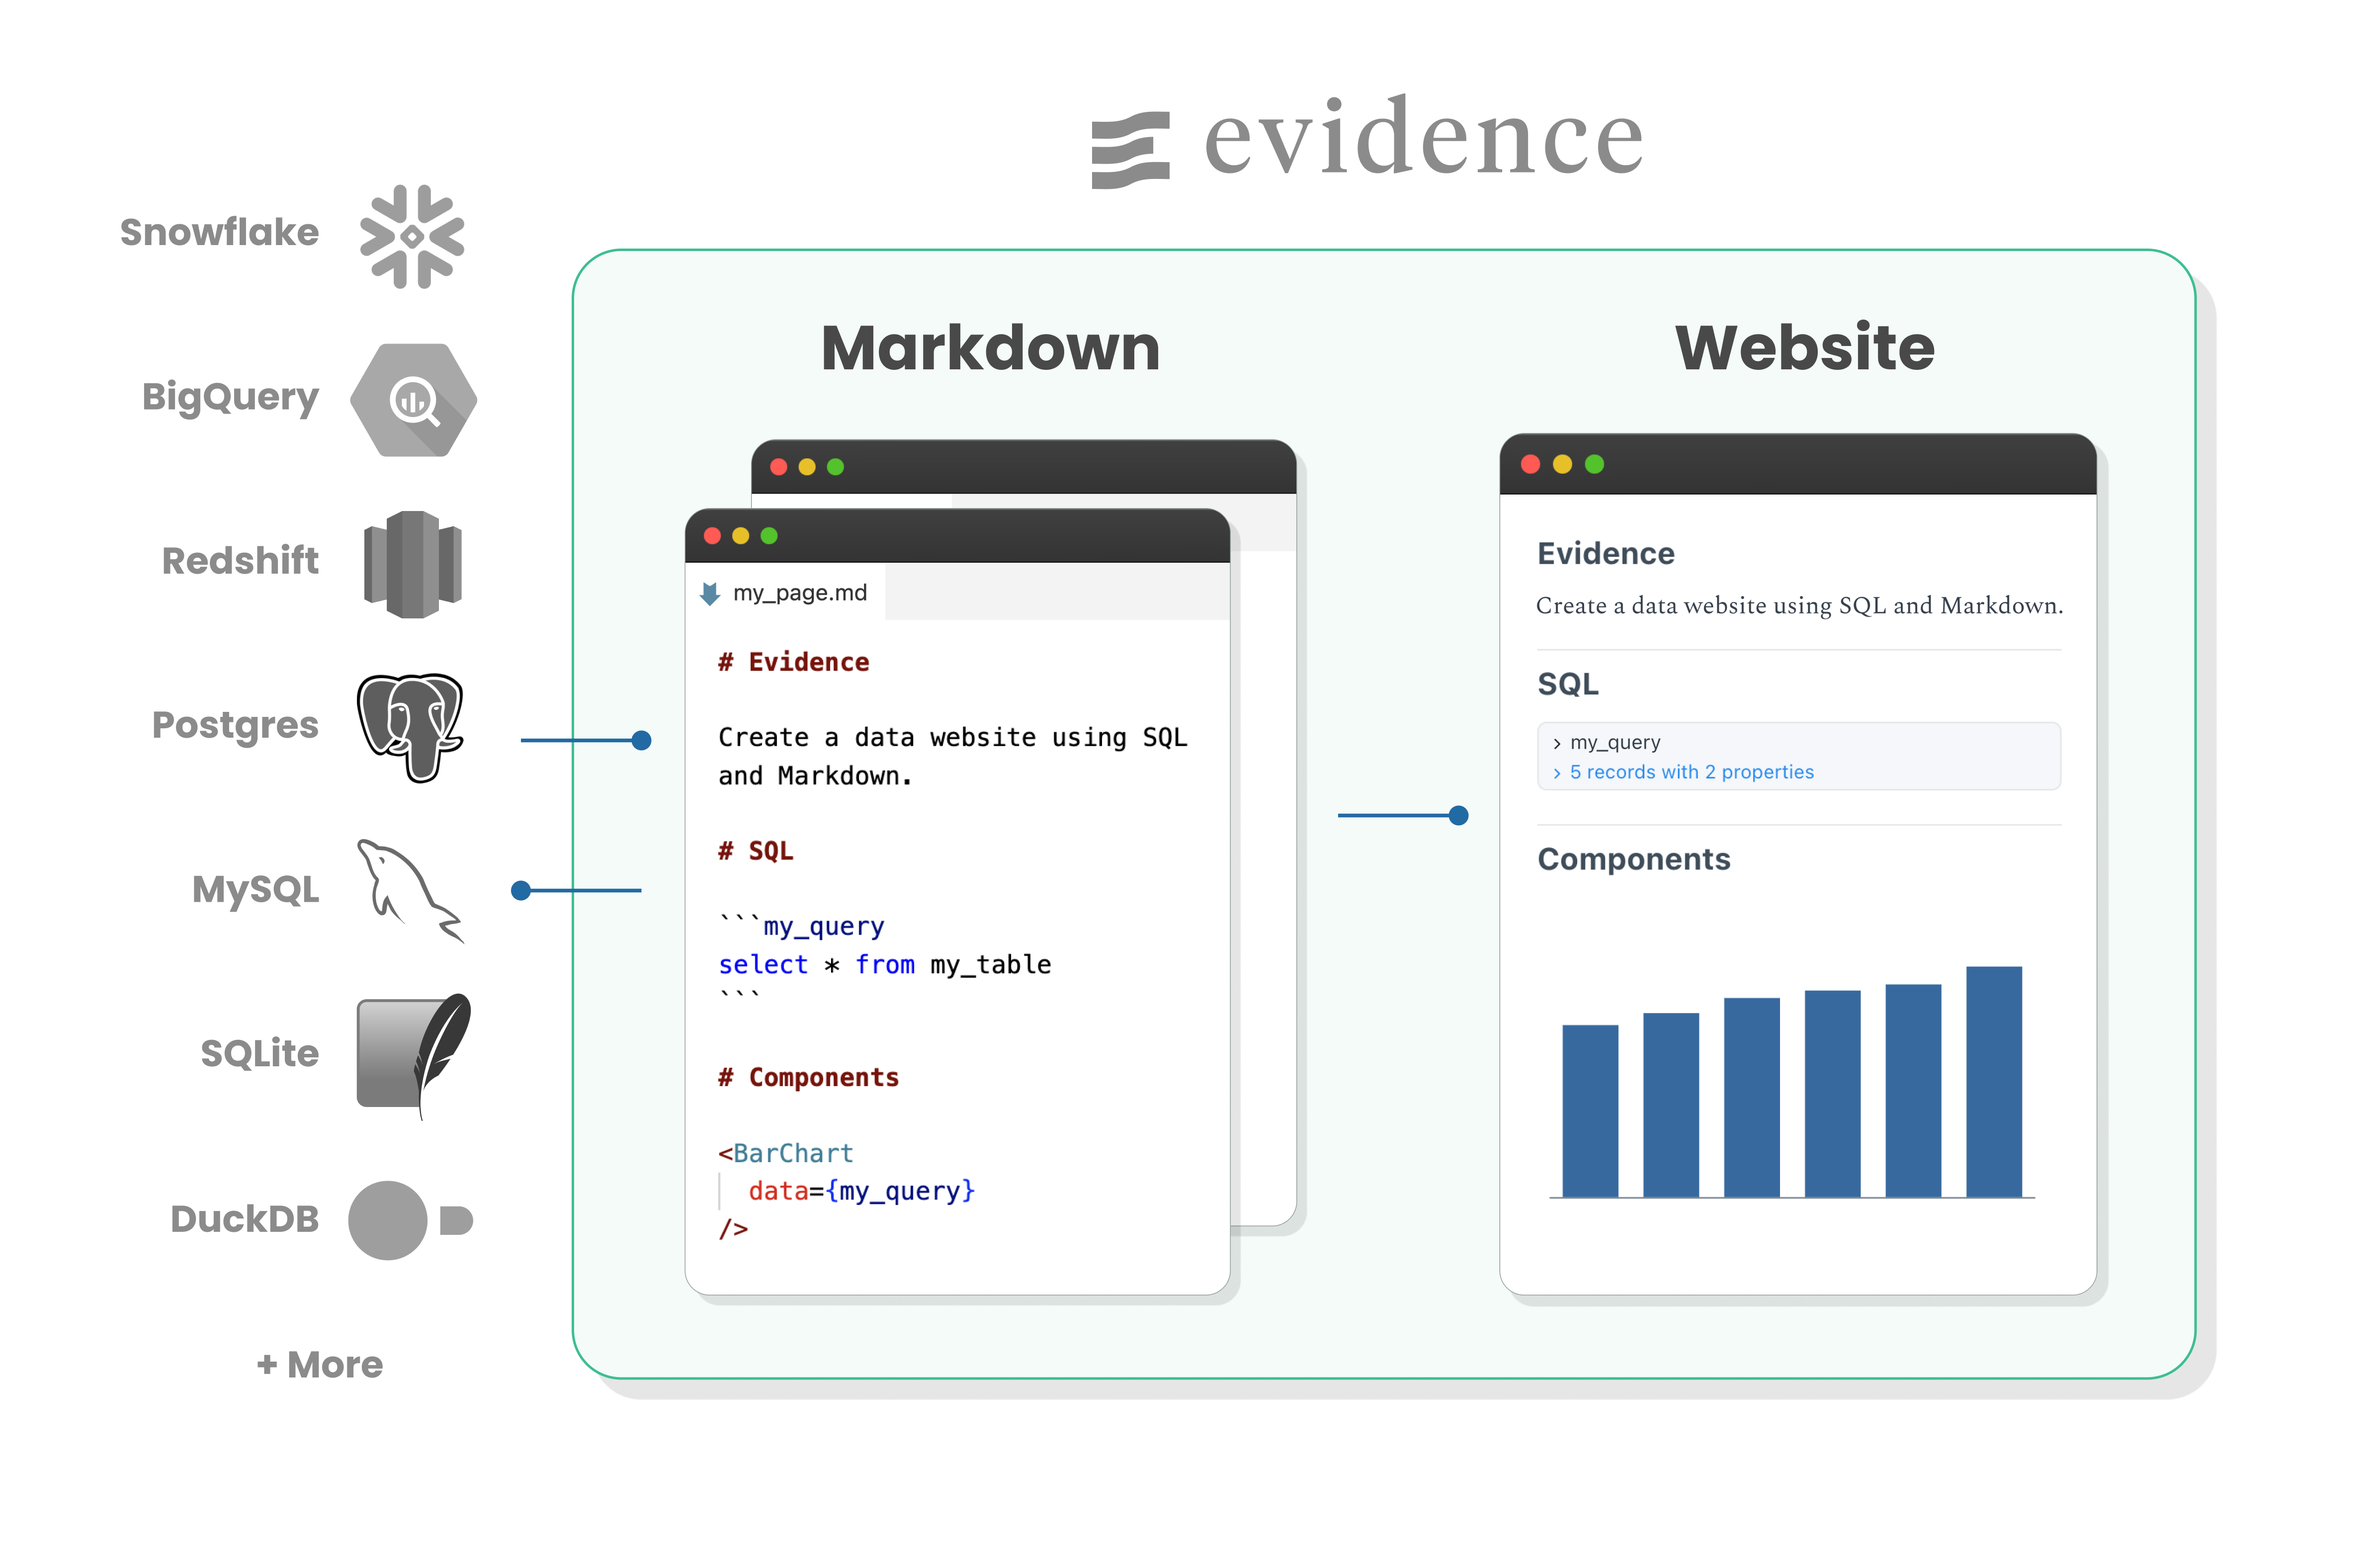
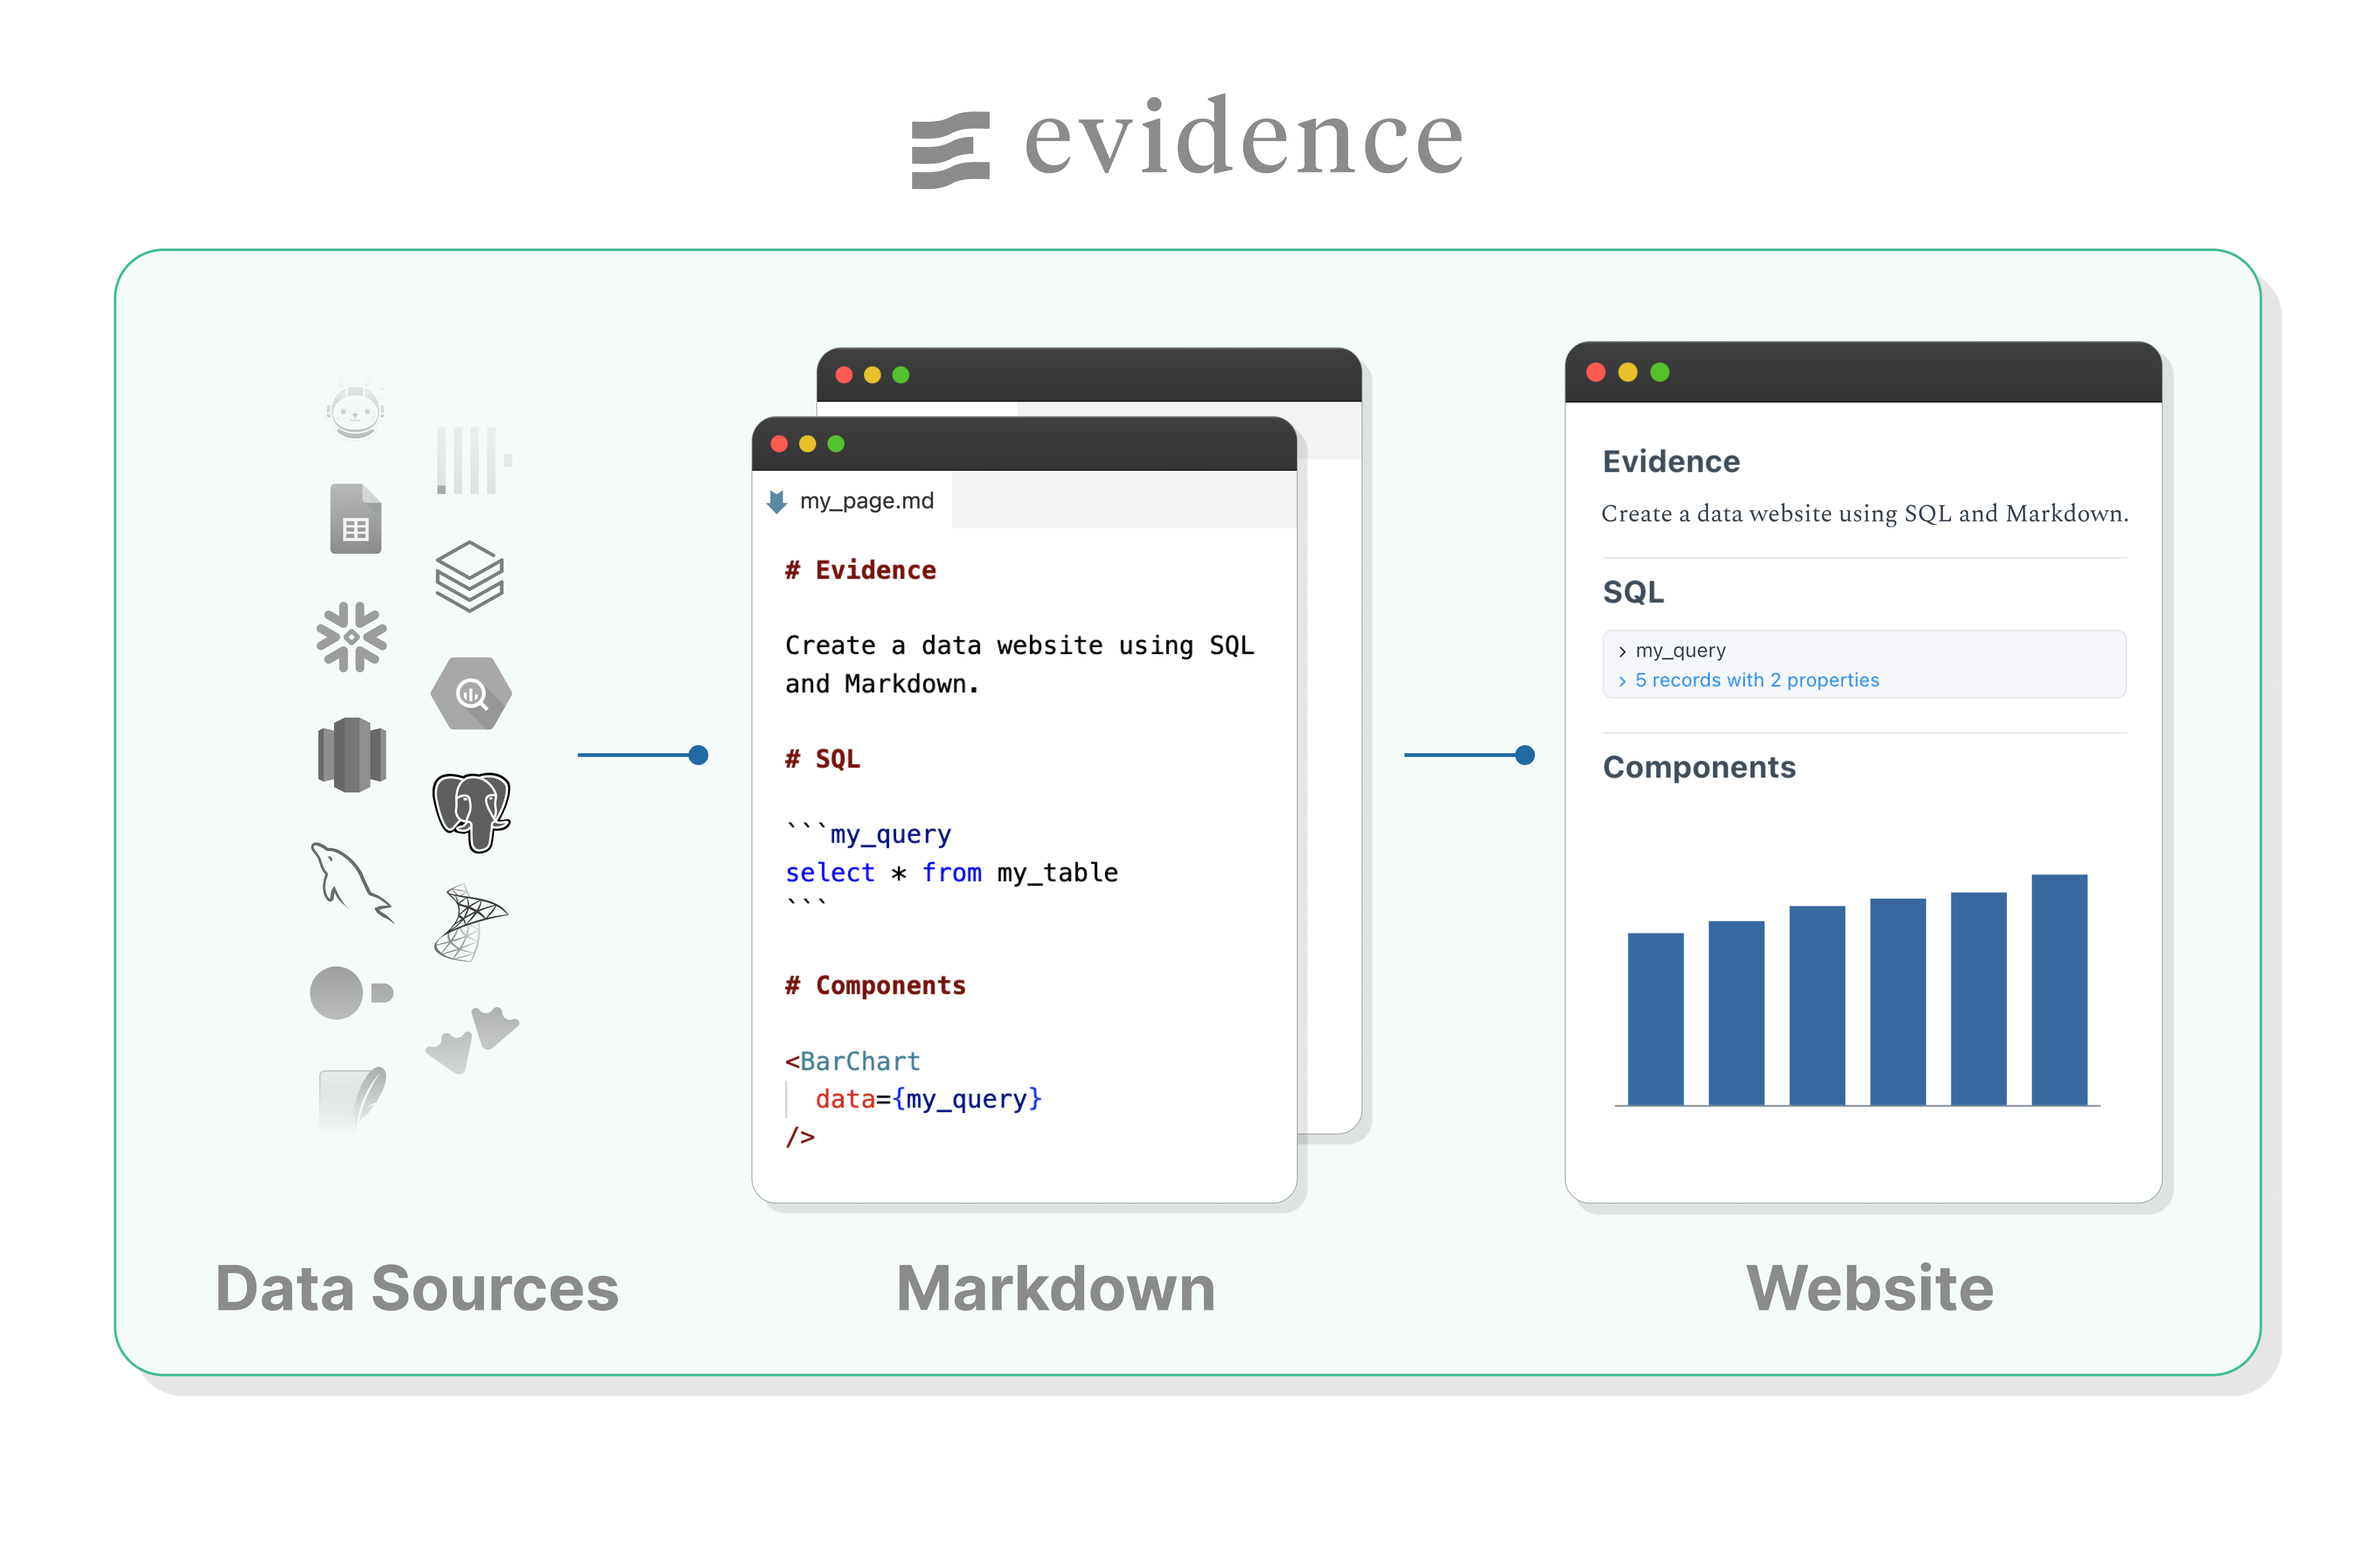
update image, readme

diff --git a/README.md b/README.md
@@ -16,13 +16,13 @@ Business Intelligence as Code: Generate reports using SQL and markdown
 
 # How It Works
 
-Evidence is an open source, code-based alternative to drag-and-drop business intelligence tools.
+Evidence is an open-source, code-based alternative to drag-and-drop business intelligence tools.
 
 ![how-it-works](sites/docs/static/img/how-it-works.png)
 
-Evidence renders a website from markdown files:
+Evidence generates a website from markdown files:
 
-- **SQL statements** inside markdown files run queries against your data warehouse
+- **SQL statements** inside markdown files run queries against your data sources
 - **Charts and components** are rendered using these query results
 - **Templated pages** generate many pages from a single markdown template
 - **Loops** and **If / Else** statements allow control of what is displayed to users
